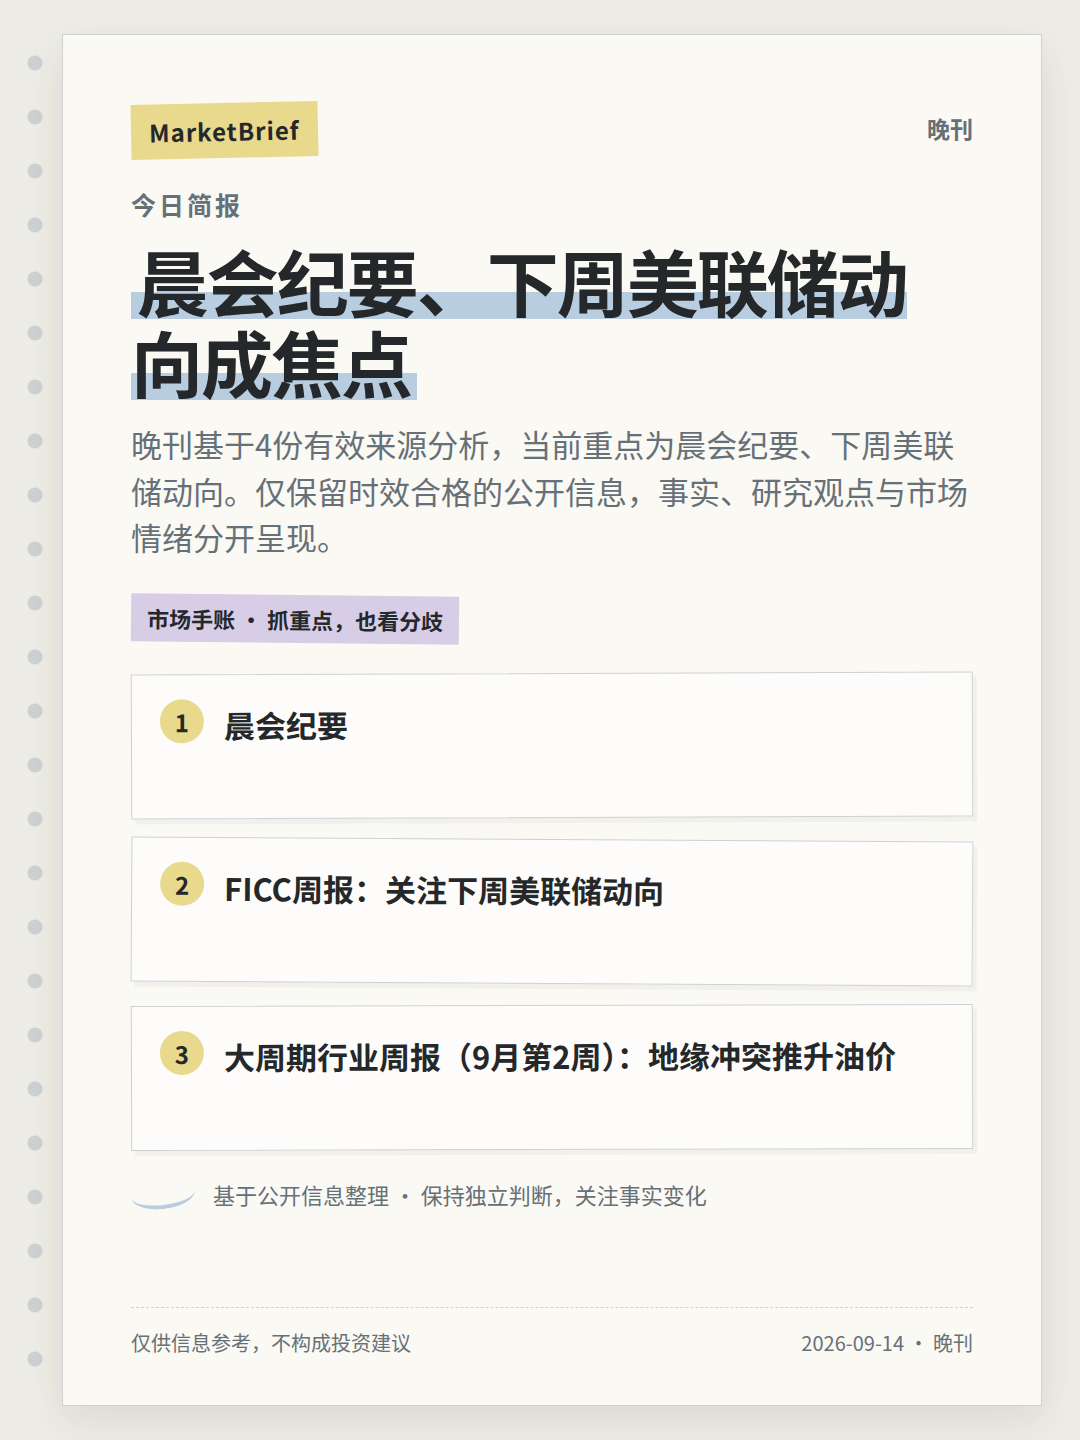
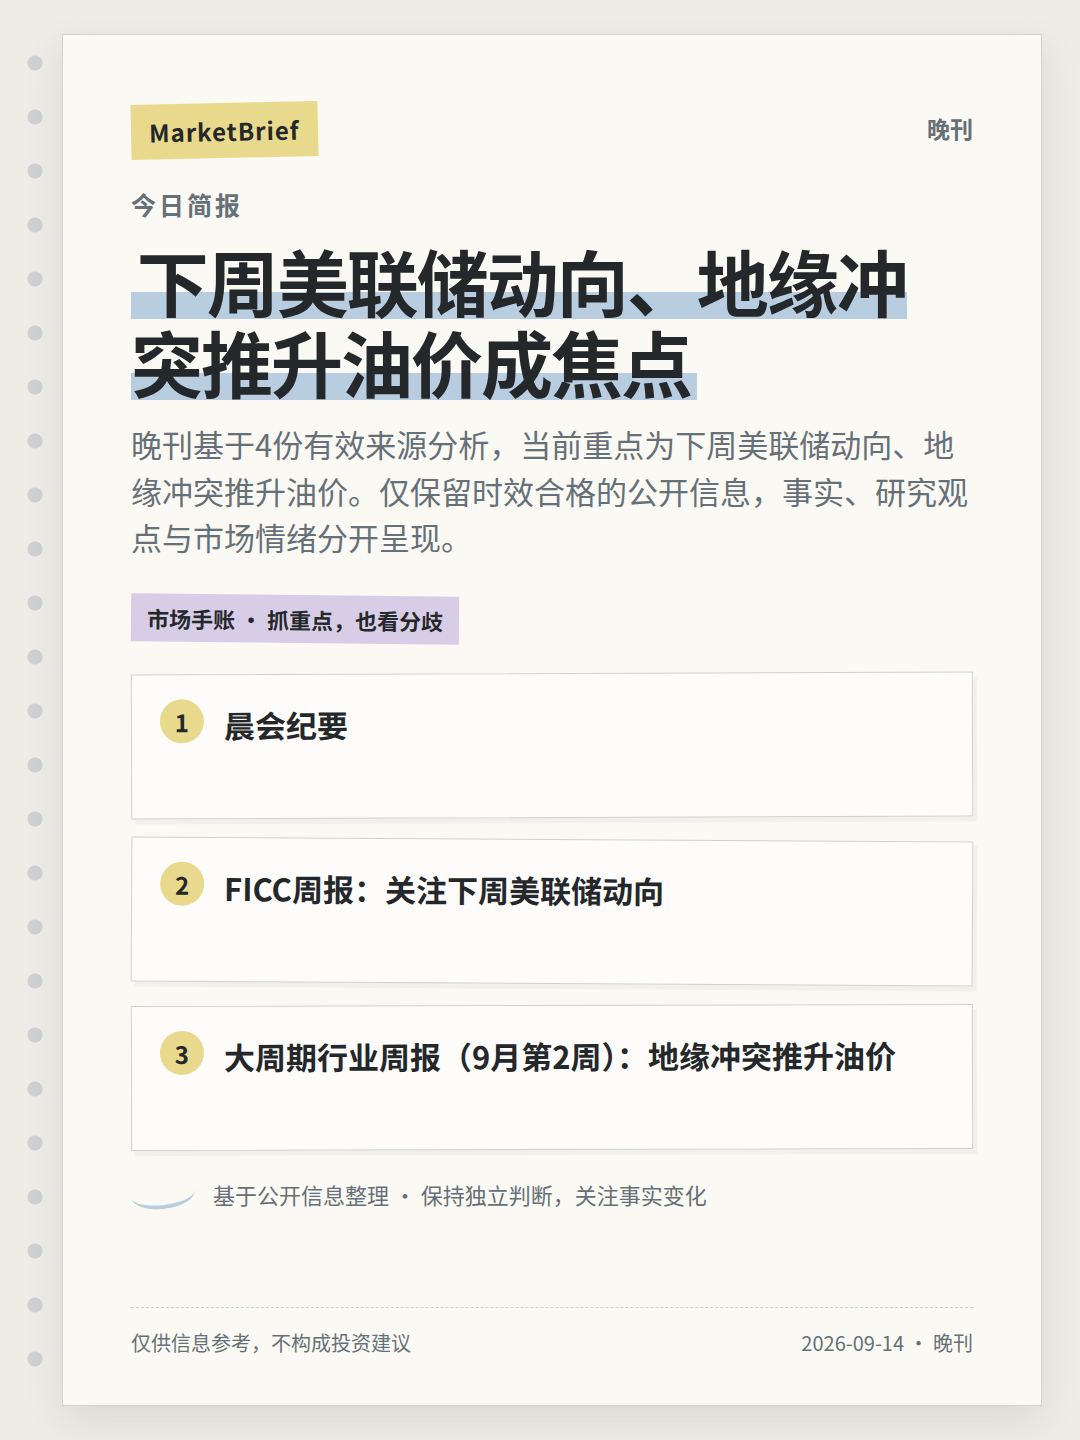
MarketBrief: publish official-source notebook edition

Changed region(s): [[0.1222, 0.1562, 0.8861, 0.4062]]

diff --git a/output/marketbrief/2026-09-14/pm/2026-09-14-pm-06.html b/output/marketbrief/2026-09-14/pm/2026-09-14-pm-06.html
@@ -27,7 +27,7 @@ footer{position:absolute;z-index:1;left:68px;right:68px;bottom:48px;border-top:1
 <h1><span>后续变量仍需确认</span></h1>
 <div class="sub">只保留来源自身限制和当前证据中的风险项，不额外推演。</div>
 <div class="ribbon">市场手账 · 抓重点，也看分歧</div>
-<div class="notes"><section class="note"><b>1</b><p>页面为BLS新闻室导航索引页，仅列出发布标题与日期，未包含具体数值或分析内容</p></section><section class="note"><b>2</b><p>部分社区信息存在时效性不足，过期内容已从当前证据中剔除。</p></section><section class="note"><b>3</b><p>美国消费者价格指数(CPI)发布：BLS于09/11/2026发布CPI数据，为最新通胀指标</p></section></div>
+<div class="notes"><section class="note"><b>1</b><p>该页面仅为BLS新闻室索引页，仅显示发布日期和标题，未包含各报告的具体数值或分析内容</p></section><section class="note"><b>2</b><p>部分社区信息存在时效性不足，过期内容已从当前证据中剔除。</p></section><section class="note"><b>3</b><p>无法从索引页判断各数据的具体方向（上升/下降），需查阅完整报告</p></section></div>
 <div class="margin"><span class="sketch"></span><span>基于公开信息整理 · 保持独立判断，关注事实变化</span></div>
 <footer><span>仅供信息参考，不构成投资建议</span><span>2026-09-14 · 晚刊</span></footer>
 </main></body></html>

diff --git a/output/marketbrief/2026-09-14/pm/2026-09-14-pm-04.html b/output/marketbrief/2026-09-14/pm/2026-09-14-pm-04.html
@@ -27,7 +27,7 @@ footer{position:absolute;z-index:1;left:68px;right:68px;bottom:48px;border-top:1
 <h1><span>主线与事件交叉验证</span></h1>
 <div class="sub">优先采用官方与研究信息，社区热度只作为辅助信号。</div>
 <div class="ribbon">市场手账 · 抓重点，也看分歧</div>
-<div class="notes"><section class="note"><b>1</b><p>美国实际收入(Real Earnings)发布：BLS于09/11/2026同步发布实际收入数据，反映工资购买力变化</p></section><section class="note"><b>2</b><p>雇主员工补偿成本(ECEC)发布：BLS于09/09/2026发布ECEC数据，反映企业劳动力成本趋势</p></section><section class="note"><b>3</b><p>关于刊发境外上市外资股（H 股）发行聆讯后资料集的公告</p></section></div>
+<div class="notes"><section class="note"><b>1</b><p>雇主员工成本(ECCEC)发布：BLS于09/09发布雇主成本数据，涵盖工资与福利支出趋势</p></section><section class="note"><b>2</b><p>关于刊发境外上市外资股（H 股）发行聆讯后资料集的公告</p></section><section class="note"><b>3</b><p>关于昌红转债回售的第十二次提示性公告</p></section></div>
 <div class="margin"><span class="sketch"></span><span>基于公开信息整理 · 保持独立判断，关注事实变化</span></div>
 <footer><span>仅供信息参考，不构成投资建议</span><span>2026-09-14 · 晚刊</span></footer>
 </main></body></html>

diff --git a/output/marketbrief/2026-09-14/pm/2026-09-14-pm-02.html b/output/marketbrief/2026-09-14/pm/2026-09-14-pm-02.html
@@ -27,7 +27,7 @@ footer{position:absolute;z-index:1;left:68px;right:68px;bottom:48px;border-top:1
 <h1><span>今晚外部变量</span></h1>
 <div class="sub">只保留当前时效窗口内、已有公开信息支持的海外市场与宏观线索。</div>
 <div class="ribbon">市场手账 · 抓重点，也看分歧</div>
-<div class="notes"><section class="note"><b>1</b><p>美国消费者价格指数(CPI)发布：BLS于09/11/2026发布CPI数据，为最新通胀指标</p></section><section class="note"><b>2</b><p>FICC周报：关注下周美联储动向</p></section><section class="note"><b>3</b><p>大周期行业周报（9月第2周）：地缘冲突推升油价</p></section></div>
+<div class="notes"><section class="note"><b>1</b><p>消费者价格指数(CPI)发布：BLS于09/11发布最新CPI数据，为当前通胀核心指标</p></section><section class="note"><b>2</b><p>生产者价格指数(PPI)发布：BLS于09/10发布PPI数据，反映生产端价格压力</p></section><section class="note"><b>3</b><p>实际收入发布：BLS于09/11发布实际收入数据，反映扣除通胀后工资变动</p></section></div>
 <div class="margin"><span class="sketch"></span><span>基于公开信息整理 · 保持独立判断，关注事实变化</span></div>
 <footer><span>仅供信息参考，不构成投资建议</span><span>2026-09-14 · 晚刊</span></footer>
 </main></body></html>

diff --git a/output/marketbrief/2026-09-14/pm/2026-09-14-pm-03.html b/output/marketbrief/2026-09-14/pm/2026-09-14-pm-03.html
@@ -27,7 +27,7 @@ footer{position:absolute;z-index:1;left:68px;right:68px;bottom:48px;border-top:1
 <h1><span>A股结构与资金</span></h1>
 <div class="sub">只呈现有当前证据支持的指数、成交、涨跌结构和资金特征。</div>
 <div class="ribbon">市场手账 · 抓重点，也看分歧</div>
-<div class="notes"><section class="note"><b>1</b><p>美国消费者价格指数(CPI)发布：BLS于09/11/2026发布CPI数据，为最新通胀指标</p></section><section class="note"><b>2</b><p>美国生产者价格指数(PPI)发布：BLS于09/10/2026发布PPI数据，反映上游成本压力</p></section><section class="note"><b>3</b><p>策略周报：等待海外不确定性落地，A股蓄势修复</p></section></div>
+<div class="notes"><section class="note"><b>1</b><p>策略周报：等待海外不确定性落地，A股蓄势修复</p></section><section class="note"><b>2</b><p>继续观察公开信息变化，避免仅凭单一信号下结论。</p></section><section class="note"><b>3</b><p>继续观察公开信息变化，避免仅凭单一信号下结论。</p></section></div>
 <div class="margin"><span class="sketch"></span><span>基于公开信息整理 · 保持独立判断，关注事实变化</span></div>
 <footer><span>仅供信息参考，不构成投资建议</span><span>2026-09-14 · 晚刊</span></footer>
 </main></body></html>

diff --git a/output/marketbrief/2026-09-14/pm/2026-09-14-pm-01.html b/output/marketbrief/2026-09-14/pm/2026-09-14-pm-01.html
@@ -24,8 +24,8 @@ footer{position:absolute;z-index:1;left:68px;right:68px;bottom:48px;border-top:1
 <body><main>
 <div class="top"><span class="tape">MarketBrief</span><span class="edition">晚刊</span></div>
 <div class="kicker">今日简报</div>
-<h1><span>晨会纪要、下周美联储动向成焦点</span></h1>
-<div class="sub">晚刊基于4份有效来源分析，当前重点为晨会纪要、下周美联储动向。仅保留时效合格的公开信息，事实、研究观点与市场情绪分开呈现。</div>
+<h1><span>下周美联储动向、地缘冲突推升油价成焦点</span></h1>
+<div class="sub">晚刊基于4份有效来源分析，当前重点为下周美联储动向、地缘冲突推升油价。仅保留时效合格的公开信息，事实、研究观点与市场情绪分开呈现。</div>
 <div class="ribbon">市场手账 · 抓重点，也看分歧</div>
 <div class="notes"><section class="note"><b>1</b><p>晨会纪要</p></section><section class="note"><b>2</b><p>FICC周报：关注下周美联储动向</p></section><section class="note"><b>3</b><p>大周期行业周报（9月第2周）：地缘冲突推升油价</p></section></div>
 <div class="margin"><span class="sketch"></span><span>基于公开信息整理 · 保持独立判断，关注事实变化</span></div>

diff --git a/output/marketbrief/2026-09-14/pm/2026-09-14-pm-05.html b/output/marketbrief/2026-09-14/pm/2026-09-14-pm-05.html
@@ -27,7 +27,7 @@ footer{position:absolute;z-index:1;left:68px;right:68px;bottom:48px;border-top:1
 <h1><span>事实、观点与情绪分开看</span></h1>
 <div class="sub">先看已确认事实，再看研究判断和市场情绪是否一致。</div>
 <div class="ribbon">市场手账 · 抓重点，也看分歧</div>
-<div class="notes"><section class="note"><b>1</b><p>美国消费者价格指数(CPI)发布：BLS于09/11/2026发布CPI数据，为最新通胀指标</p></section><section class="note"><b>2</b><p>晨会纪要</p></section><section class="note"><b>3</b><p>继续观察公开信息变化，避免仅凭单一信号下结论。</p></section></div>
+<div class="notes"><section class="note"><b>1</b><p>消费者价格指数(CPI)发布：BLS于09/11发布最新CPI数据，为当前通胀核心指标</p></section><section class="note"><b>2</b><p>晨会纪要</p></section><section class="note"><b>3</b><p>继续观察公开信息变化，避免仅凭单一信号下结论。</p></section></div>
 <div class="margin"><span class="sketch"></span><span>基于公开信息整理 · 保持独立判断，关注事实变化</span></div>
 <footer><span>仅供信息参考，不构成投资建议</span><span>2026-09-14 · 晚刊</span></footer>
 </main></body></html>

diff --git a/output/marketbrief/2026-09-14/pm/brief.md b/output/marketbrief/2026-09-14/pm/brief.md
@@ -1,45 +1,43 @@
-# 晨会纪要、下周美联储动向成焦点
+# 下周美联储动向、地缘冲突推升油价成焦点
 
-> 晚刊基于4份有效来源分析，当前重点为晨会纪要、下周美联储动向。仅保留时效合格的公开信息，事实、研究观点与市场情绪分开呈现。
+> 晚刊基于4份有效来源分析，当前重点为下周美联储动向、地缘冲突推升油价。仅保留时效合格的公开信息，事实、研究观点与市场情绪分开呈现。
 
 ## 今晚外部变量
 
 只保留当前时效窗口内、已有公开信息支持的海外市场与宏观线索。
 
-- 美国消费者价格指数(CPI)发布：BLS于09/11/2026发布CPI数据，为最新通胀指标
-- FICC周报：关注下周美联储动向
-- 大周期行业周报（9月第2周）：地缘冲突推升油价
+- 消费者价格指数(CPI)发布：BLS于09/11发布最新CPI数据，为当前通胀核心指标
+- 生产者价格指数(PPI)发布：BLS于09/10发布PPI数据，反映生产端价格压力
+- 实际收入发布：BLS于09/11发布实际收入数据，反映扣除通胀后工资变动
 
 ## A股结构与资金
 
 只呈现有当前证据支持的指数、成交、涨跌结构和资金特征。
 
-- 美国消费者价格指数(CPI)发布：BLS于09/11/2026发布CPI数据，为最新通胀指标
-- 美国生产者价格指数(PPI)发布：BLS于09/10/2026发布PPI数据，反映上游成本压力
 - 策略周报：等待海外不确定性落地，A股蓄势修复
 
 ## 主线与事件交叉验证
 
 优先采用官方与研究信息，社区热度只作为辅助信号。
 
-- 美国实际收入(Real Earnings)发布：BLS于09/11/2026同步发布实际收入数据，反映工资购买力变化
-- 雇主员工补偿成本(ECEC)发布：BLS于09/09/2026发布ECEC数据，反映企业劳动力成本趋势
+- 雇主员工成本(ECCEC)发布：BLS于09/09发布雇主成本数据，涵盖工资与福利支出趋势
 - 关于刊发境外上市外资股（H 股）发行聆讯后资料集的公告
+- 关于昌红转债回售的第十二次提示性公告
 
 ## 事实、观点与情绪分开看
 
 先看已确认事实，再看研究判断和市场情绪是否一致。
 
-- 美国消费者价格指数(CPI)发布：BLS于09/11/2026发布CPI数据，为最新通胀指标
+- 消费者价格指数(CPI)发布：BLS于09/11发布最新CPI数据，为当前通胀核心指标
 - 晨会纪要
 
 ## 后续变量仍需确认
 
 只保留来源自身限制和当前证据中的风险项，不额外推演。
 
-- 页面为BLS新闻室导航索引页，仅列出发布标题与日期，未包含具体数值或分析内容
+- 该页面仅为BLS新闻室索引页，仅显示发布日期和标题，未包含各报告的具体数值或分析内容
 - 部分社区信息存在时效性不足，过期内容已从当前证据中剔除。
-- 美国消费者价格指数(CPI)发布：BLS于09/11/2026发布CPI数据，为最新通胀指标
+- 无法从索引页判断各数据的具体方向（上升/下降），需查阅完整报告
 
 ## 信息口径
 
@@ -50,5 +48,5 @@
 本文仅作公开信息整理与讨论，不构成任何投资建议。
 
 刊期：2026-09-14 晚刊  
-生成时间：2026-09-14T12:14:48+08:00  
-模型：`SenseNova` · 调用 3 次 · Token 5175
+生成时间：2026-09-14T12:38:33+08:00  
+模型：`SenseNova` · 调用 3 次 · Token 5361
